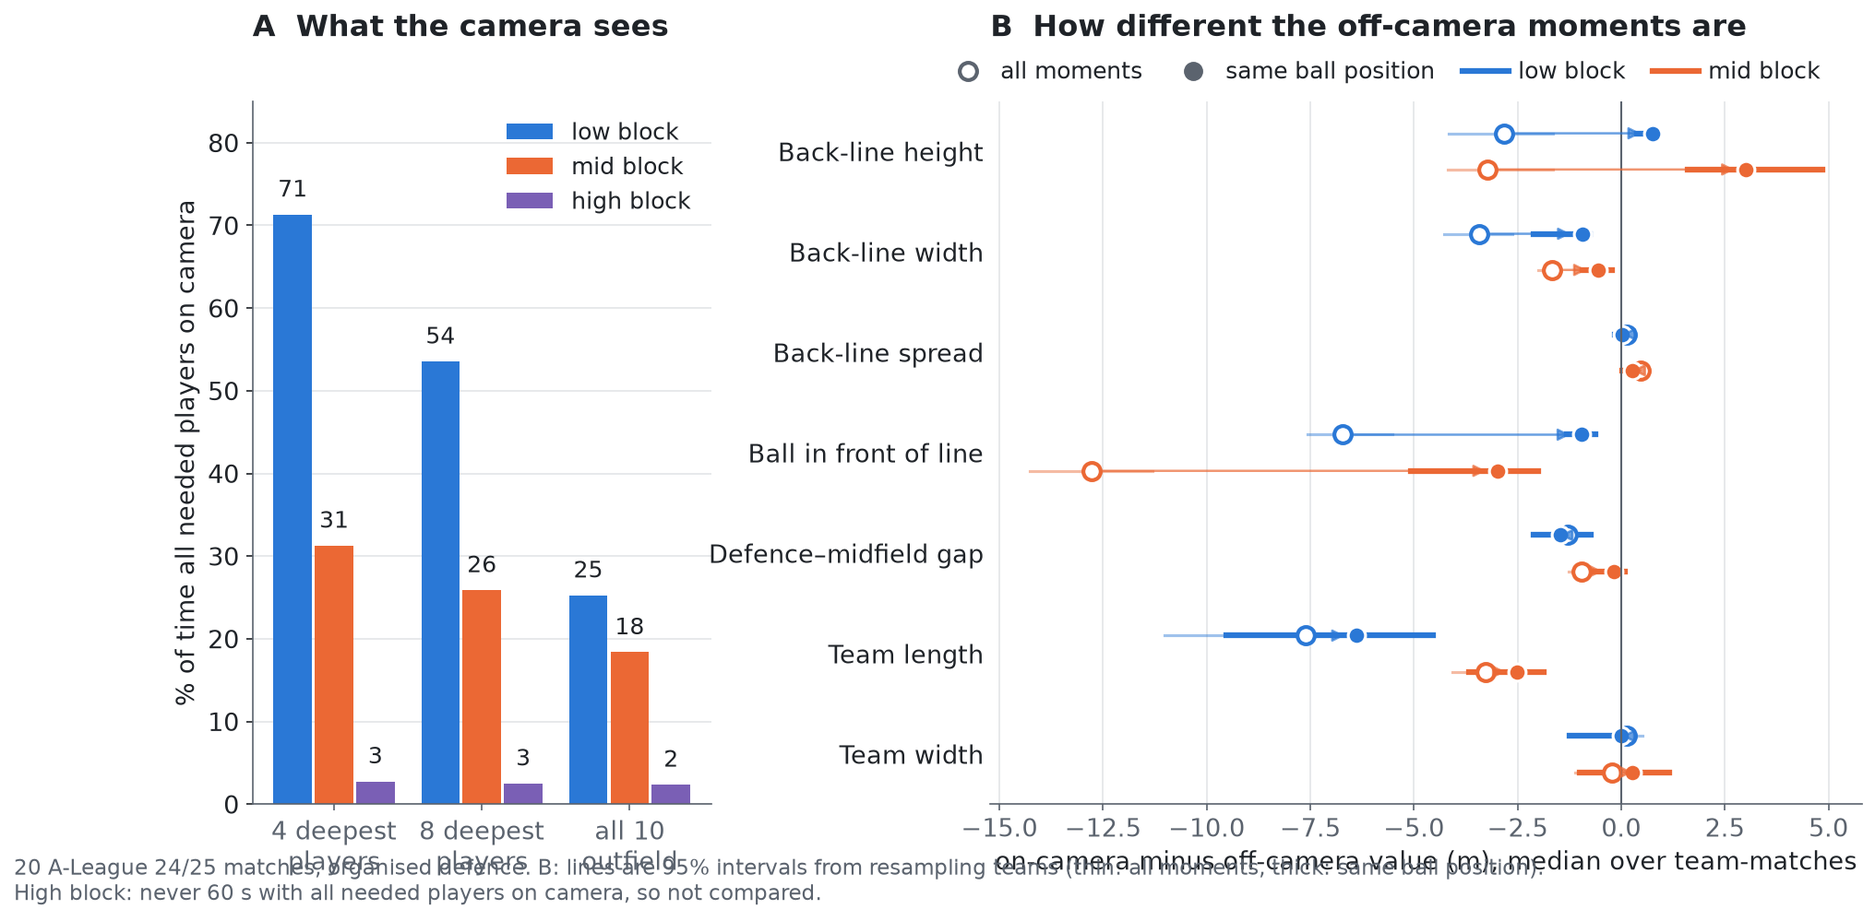
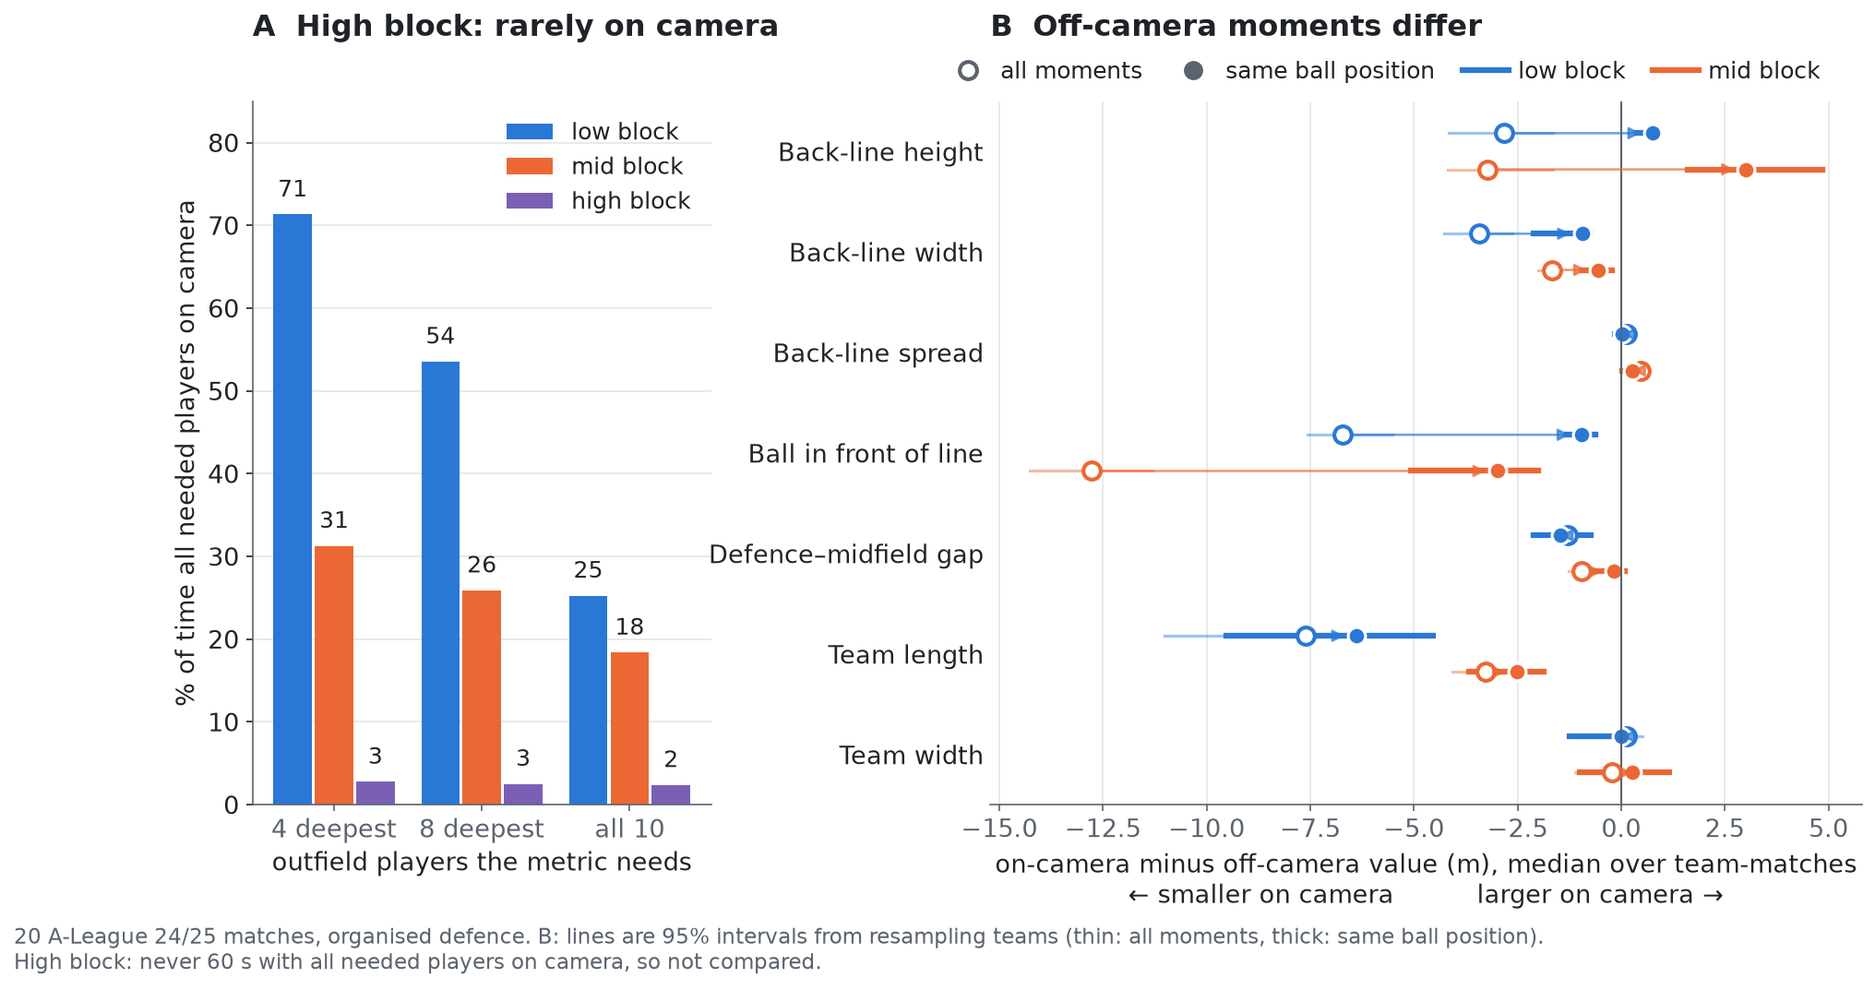
Second review fixes: figure layout and sign guide, drop the across-match r interval (teams repeat), keep a user's matches.json, team-matches per comparison in Table 1, state which rules came after the results, cite off-screen imputation work, constraints in quickstart, docstrings

diff --git a/backline/trust_figure.py b/backline/trust_figure.py
@@ -31,11 +31,12 @@ def draw(t: pd.DataFrame, out: str):
         a.bar(xs, cov.loc[needs, blk] * 100, w, color=COL[blk], label=NAME[blk])
         for x, v in zip(xs, cov.loc[needs, blk] * 100):
             a.text(x, v + 1.5, f"{v:.0f}", ha="center", va="bottom", fontsize=12, color=INK)
-    a.set_xticks(np.arange(len(needs)), [f"{n} deepest\nplayers" if n < 10 else "all 10\noutfield" for n in needs])
+    a.set_xticks(np.arange(len(needs)), [f"{n} deepest" if n < 10 else "all 10" for n in needs])
+    a.set_xlabel("outfield players the metric needs")
     a.set_ylim(0, 85); a.set_ylabel("% of time all needed players on camera")
     a.spines[["top", "right"]].set_visible(False); a.yaxis.grid(True, color=GRID); a.set_axisbelow(True)
     a.legend(frameon=False, loc="upper right", fontsize=12)
-    a.set_title("A  What the camera sees", loc="left", fontweight="bold", pad=34)
+    a.set_title("A  High block: rarely on camera", loc="left", fontweight="bold", pad=34)
 
     # B: on-camera minus off-camera, raw (hollow) and same ball position (filled), 95% team-bootstrap intervals
     m = t[t.block.isin(["low_block", "medium_block"])]
@@ -53,17 +54,18 @@ def draw(t: pd.DataFrame, out: str):
             b.plot(r.matched_gap_median, y, "o", ms=9, color=c, mec="white", mew=1.5)
     b.axvline(0, color=MUTED, lw=1)
     b.set_yticks(range(len(metrics)), [SHORT[x] for x in metrics]); b.invert_yaxis()
-    b.set_xlabel("on-camera minus off-camera value (m), median over team-matches")
+    b.set_xlabel("on-camera minus off-camera value (m), median over team-matches\n"
+                 "\u2190 smaller on camera          larger on camera \u2192")
     b.spines[["top", "right", "left"]].set_visible(False); b.tick_params(axis="y", length=0)
     b.xaxis.grid(True, color=GRID); b.set_axisbelow(True)
-    b.set_title("B  How different the off-camera moments are", loc="left", fontweight="bold", pad=34)
+    b.set_title("B  Off-camera moments differ", loc="left", fontweight="bold", pad=34)
     h = [plt.Line2D([], [], marker="o", ls="", ms=9, mfc="white", mec=MUTED, mew=2, label="all moments"),
          plt.Line2D([], [], marker="o", ls="", ms=9, color=MUTED, label="same ball position"),
          plt.Line2D([], [], color=COL["low_block"], lw=3, label="low block"),
          plt.Line2D([], [], color=COL["medium_block"], lw=3, label="mid block")]
     b.legend(handles=h, frameon=False, loc="lower center", bbox_to_anchor=(0.45, 0.995), fontsize=12, ncol=4,
              handletextpad=0.4, columnspacing=1.2)
-    fig.text(0.01, 0.005, "20 A-League 24/25 matches, organised defence. B: lines are 95% intervals from resampling teams "
+    fig.text(0.01, -0.07, "20 A-League 24/25 matches, organised defence. B: lines are 95% intervals from resampling teams "
              "(thin: all moments, thick: same ball position).\nHigh block: never 60 s with all needed players on camera, so not compared.",
              fontsize=11, color=MUTED)
     fig.savefig(out, dpi=150, bbox_inches="tight", facecolor="white")

diff --git a/backline/trust.py b/backline/trust.py
@@ -32,8 +32,9 @@ Columns returned by `check` (one row per block):
     matched_gap_median, _ci_lo/hi the same at the same ball position; team_matches_matched = how many had enough time
     rank_rho                      Spearman correlation of on-camera and off-camera values across team-matches
     r_halves, n_halves            first half vs second half
-    r_cross, r_cross_ci_lo/hi, n_cross, p_cross   this match vs the same team's other matches, Fisher 95% interval,
-                                  permutation p; `python -m backline.trust` adds q_cross (Benjamini-Hochberg)
+    r_cross, n_cross, p_cross     this match vs the same team's other matches, permutation p (no interval: team-matches
+                                  repeat teams, so they are not independent); `python -m backline.trust` adds q_cross
+                                  (Benjamini-Hochberg over the low- and mid-block tests)
 
     python -m backline.trust            # the built-in metric set, all provided matches -> trust_table.csv
 """
@@ -164,13 +165,6 @@ def _cross_r(v: pd.DataFrame, rng, n_perm=2000):
     return r, n, float(((np.abs(null) >= abs(r)).sum() + 1) / (n_perm + 1))
 
 
-def _fisher_ci(r, n):
-    if np.isnan(r) or n < 4:
-        return np.nan, np.nan
-    z, se = np.arctanh(r), 1 / np.sqrt(n - 3)
-    return float(np.tanh(z - 1.96 * se)), float(np.tanh(z + 1.96 * se))
-
-
 def _team_boot(d: pd.Series, teams: pd.Series, rng, n_boot=2000):
     """95% interval of the median difference, resampling teams."""
     d, teams = d.values, teams.values
@@ -204,10 +198,10 @@ def summarise(v: pd.DataFrame, seed: int = 7) -> pd.DataFrame:
             team_matches_matched=len(mt),
             rank_rho=float(both.seen.rank().corr(both.off.rank())) if len(both) >= 8 else np.nan,
             r_halves=float(np.corrcoef(halves.half1, halves.half2)[0, 1]) if len(halves) >= 8 else np.nan,
-            n_halves=len(halves), r_cross=r_cross, r_cross_ci=_fisher_ci(r_cross, n_cross), n_cross=n_cross,
+            n_halves=len(halves), r_cross=r_cross, n_cross=n_cross,
             p_cross=p_cross))
     t = pd.DataFrame(out)
-    for c in ("gap_ci", "matched_gap_ci", "r_cross_ci"):
+    for c in ("gap_ci", "matched_gap_ci"):
         t[[c + "_lo", c + "_hi"]] = pd.DataFrame(t.pop(c).tolist(), index=t.index)
     return t
 

diff --git a/backline/data.py b/backline/data.py
@@ -22,8 +22,10 @@ def league_dir() -> Path:
     return Path(os.environ["BACKLINE_LEAGUE"]) if os.environ.get("BACKLINE_LEAGUE") else Path(__file__).parent
 
 
-def _fetch(url: str, dest: Path) -> Path:
-    if dest.exists() and dest.stat().st_size > 1000:
+def _fetch(url: str, dest: Path, min_size: int = 1) -> Path:
+    """Download unless the file is already there. Existing files are kept, so a user's own matches.json is never
+    replaced; `min_size` makes tracking files smaller than a real one (e.g. a Git LFS pointer) download again."""
+    if dest.exists() and dest.stat().st_size >= min_size:
         return dest
     dest.parent.mkdir(parents=True, exist_ok=True)
     tmp = dest.with_suffix(dest.suffix + ".part")
@@ -35,6 +37,7 @@ def _fetch(url: str, dest: Path) -> Path:
 
 
 def match_ids() -> list[int]:
+    """Match ids from BACKLINE_DATA/matches.json (a list of {"id": ...}); SkillCorner's list is fetched only if absent."""
     p = _fetch(f"{RAW}/matches.json", data_dir() / "matches.json")
     return sorted(m["id"] for m in json.loads(p.read_text()))
 
@@ -48,7 +51,7 @@ def download(mids=None, verbose=True) -> None:
         trk = base / f"{mid}_tracking_extrapolated.jsonl"
         if not (trk.exists() and trk.stat().st_size > 1000):
             print(f"downloading match {mid} tracking (~90 MB, first run only)...", flush=True)
-        _fetch(f"{LFS}/matches/{mid}/{mid}_tracking_extrapolated.jsonl", trk)
+        _fetch(f"{LFS}/matches/{mid}/{mid}_tracking_extrapolated.jsonl", trk, min_size=1000)
         if verbose:
             print("downloaded", mid, flush=True)
 

diff --git a/backline/breaks.py b/backline/breaks.py
@@ -82,6 +82,7 @@ def _one(mid, which="breaks"):
 
 
 def classify(df: pd.DataFrame) -> pd.DataFrame:
+    """Add a `verdict` column (no_data / estimated / too_close / looks_offside / holder_kept_onside / clean_break)."""
     def verdict(r):
         if pd.isna(r.get("onside_margin")):
             return "no_data"
@@ -100,6 +101,7 @@ def classify(df: pd.DataFrame) -> pd.DataFrame:
 
 
 def all_breaks(mids=None, procs=3, which="breaks") -> pd.DataFrame:
+    """Offside-replay rows for every line-breaking pass in `mids` (default: all matches), in `procs` processes."""
     mids = mids or data.match_ids()
     with Pool(procs) as p:
         return classify(pd.concat(p.starmap(_one, [(m, which) for m in mids]), ignore_index=True))

diff --git a/tests/test_trust.py b/tests/test_trust.py
@@ -91,3 +91,11 @@ def test_same_ball_position_recovers_estimation_error(monkeypatch):
     _, s = _run(monkeypatch, {m: _fake_ball(m, rng, bias=3.0) for m in (1, 2, 3)})
     assert abs(s.matched_gap_median - (-3.0)) < 0.5    # on minus off = -bias at the same ball position
     assert s.matched_gap_ci_hi < 0
+
+
+def test_own_matches_json_is_kept(tmp_path, monkeypatch):
+    """A short user-made matches.json (other matches or leagues) must not be replaced by SkillCorner's list."""
+    from backline import data
+    monkeypatch.setenv("BACKLINE_DATA", str(tmp_path))
+    (tmp_path / "matches.json").write_text('[{"id": 1996435}]')
+    assert data.match_ids() == [1996435]

diff --git a/backline/league.py b/backline/league.py
@@ -57,6 +57,9 @@ if __name__ == "__main__":
         allr = pd.concat(p.map(one, data.match_ids()), ignore_index=True)
     allr[allr.half == 0].drop(columns="half").to_csv(out / "league_reference.csv", index=False)
     rel = reliability(allr)
+    if not rel:
+        print("note: reliability.json is empty - first/second-half and match-to-match r need at least 8 team-matches "
+              "with a value (and, across matches, teams with 2+ matches)")
     (out / "reliability.json").write_text(json.dumps(rel, indent=1))
     print("saved", out / "league_reference.csv", out / "reliability.json")
     print(f"use it: BACKLINE_LEAGUE={out} python -m backline MATCH_ID")

diff --git a/backline/metrics.py b/backline/metrics.py
@@ -53,6 +53,8 @@ def _value(name: str, f: pd.DataFrame) -> float:
 
 
 def team_metrics(frames: pd.DataFrame, team_id: int, seed: int = 0, n_boot: int = N_BOOT) -> pd.DataFrame:
+    """One row per metric and block for `team_id`: value on measured frames (all four on camera), seconds measured,
+    90% interval from resampling defensive phases, and the league first-half/second-half and match-to-match r."""
     f = _add_frame_cols(frames[frames.team_id == team_id])
     rng = np.random.default_rng(seed)
     out = []

diff --git a/backline/scenes.py b/backline/scenes.py
@@ -23,6 +23,8 @@ def attempts(mid: int, team_id: int) -> int:
 
 
 def scenes(mid: int, team_id: int, include_failed: bool = False) -> list[dict]:
+    """Completed (with include_failed, also attempted) passes against `team_id` tagged as breaking the last line, one dict per scene with positions at the
+    pass frame and the reception; cards with the back four and receiver on camera first."""
     m = data.meta(mid)
     team, gk, home, side = data.roster(m)
     num = {p["id"]: p.get("number") for p in m["players"]}

diff --git a/backline/cards.py b/backline/cards.py
@@ -67,6 +67,8 @@ def _half_pitch(ax, xmax):
 
 def render(sc: list[dict], team_name: str, opp_name: str, out: Path, lang="en", font=None, attempts: int = 0,
            total: int | None = None):
+    """Draw a page of scene cards (from scenes.scenes) for `team_name` defending and save it to `out`; returns the path.
+    `attempts` and `total` are only used for the page header."""
     from matplotlib.lines import Line2D
     _font(lang, font)
     T = TXT[lang]

diff --git a/backline/report.py b/backline/report.py
@@ -62,6 +62,8 @@ def _shape(frames, team_id, block):
 
 
 def render(frames, met, team_id, team_name, opp_name, league: pd.DataFrame, out: Path, lang="en", font=None, match_id=None):
+    """Draw the one-page match report for one team (`met` from metrics.team_metrics, `league` = league reference)
+    and save it to `out`; returns the path."""
     _font(lang, font)
     T = TXT[lang]
     fig = plt.figure(figsize=(17, 13.5), facecolor=SURFACE)

diff --git a/README.md b/README.md
@@ -3,34 +3,33 @@
 **Short answer, for 20 A-League 24/25 matches: only in the low block, and not yet as a team trait.**
 
 - **The high block is out of sight.** All four deepest defenders are on camera 3% of the time; whole-team shape 2%.
-- **What the camera misses is different football.** Moments with a needed player off camera differ from on-camera
-  moments by up to 13 m (median). Comparing only moments with the ball in the same place removes most of this for "ball in
-  front of the line" and back-line width, and *reverses* back-line height: at the same ball position, the line is 0.8–3 m
-  deeper when one of the four is off camera. Team length stays 2.5–6.4 m apart.
-- **No metric repeated as a team trait**, but with 1–7 matches per team a moderate team effect would usually be
-  missed: absence of evidence, not evidence of absence.
+- **What the camera misses is different football.** Metrics read up to 13 m (median) differently when a needed
+  player is off camera. With the ball in the same place, most of this goes for "ball in front of the line" and
+  back-line width, and back-line height *reverses*: the line is 0.8–3 m deeper when one of the four is off camera.
+  Team length stays 2.5–6.4 m apart.
+- **No metric repeated as a team trait**, but with 1–7 matches per team a moderate effect would usually be missed.
 
 `backline.trust` runs these checks on any team-level defensive metric, so an analyst knows whether a number belongs
 in an opposition report before it is read as "how this team defends".
 
 ## Why
 
-Defensive shape needs several players at once; the camera follows the ball, so off-camera defenders are estimates.
-Broadcast visibility limits (Bassek et al., *Sci. Med. Football*, 2025) and metric repeatability checks (Franks et
-al., "Meta-analytics", 2016) are known; this combines both for defensive shape, per block, for any metric.
+Defensive shape needs several players at once, but the camera follows the ball. Broadcast visibility limits (Bassek
+et al., *Sci. Med. Football*, 2025), metric repeatability (Franks et al., 2016) and filling in off-screen players
+(the author's arXiv:2607.11548) are known; this asks, per block and for any metric, whether the number holds up.
 
 ## Quickstart
 
 ```bash
 git clone https://github.com/nowayfootball/backline && cd backline
 python3 -m venv .venv && source .venv/bin/activate   # Python 3.10 or newer
-pip install -e ".[test]"                             # tested versions: constraints.txt
-pytest                                               # 11 tests, downloads 3 matches (~1 min)
-python -m backline.trust                             # Table 1 -> trust_table.csv (20 matches, 1.8 GB, ~5 min)
+pip install -e ".[test]" -c constraints.txt         # tested versions
+pytest                                               # 12 tests, downloads 3 matches (~1 min)
+python -m backline.trust                             # Table 1 -> trust_table.csv (downloads 20 matches, 1.8 GB)
 python -m backline.trust_figure                      # Figure 1 -> figures/fig1_trust.png
 ```
 
-Data (not included) downloads from a pinned SkillCorner open-data commit to `~/.cache/backline` (`BACKLINE_DATA`).
+Data (not included) comes from a pinned SkillCorner open-data commit into `~/.cache/backline` (`BACKLINE_DATA`).
 
 ## Check your own metric
 
@@ -42,56 +41,56 @@ print(trust.check(gap, uses=range(8)))     # defence-midfield gap, needs the 8 d
 
 The function gets one team's organised-defence frames from one match: `x0..x9`, `y0..y9` (outfield players by depth,
 own goal at x = −52.5), `d0..d9` (on camera?), `ball_x`, `ball_y`. Blocks are SkillCorner's phase tags. `check`
-returns, per block, every number in Table 1 plus intervals and n (columns: `backline.trust` docstring).
+returns every Table 1 number per block, with intervals and n (columns: `backline.trust` docstring).
 
 ## Results
 
 ![Figure 1](figures/fig1_trust.png)
 
-**Figure 1.** A: share of organised-defence time with every needed player on camera. B: on- minus off-camera
-value; hollow = all moments, filled = same ball position (5 m along × three bands across).
+**Figure 1.** A: share of organised-defence time with every needed player on camera. B: on- minus off-camera value
+(same ball position = 5 m along × three bands across).
 
-**Table 1.** Seven common metrics, low / mid block (40 team-matches)
+**Table 1.** Seven common metrics, low / mid block, 20 matches. Brackets: team-matches compared; r uses 36–39 (18–20
+for 10-player metrics).
 
-| Metric (players needed) | On camera | On − off, same ball position | Order kept on/off (ρ) | Same team, other matches (r) | Use for |
+| Metric (players needed) | On camera | On − off, same ball position | Rank agreement on/off (ρ) | Repeat across a team's matches (r) | Use for |
 |---|---|---|---|---|---|
-| Back-line height (4) | 71% / 31% | +0.8 / +3.0 m | 0.33 / 0.63 | 0.39 / 0.27 | low ✓ · mid ✗ |
-| Back-line width (4) | 71% / 31% | −0.9 / −0.6 m | 0.77 / 0.79 | 0.08 / −0.01 | low ✓ · mid ranking |
-| Back-line spread (4) | 71% / 31% | 0.0 / +0.3 m | 0.58 / 0.58 | 0.22 / 0.40 | low ✓ · mid ✗ |
-| Ball in front of line (4) | 71% / 31% | −1.0 / −3.0 m | 0.58 / 0.26 | 0.44 / 0.08 | low ✓ · mid ✗ |
-| Defence–midfield gap (8) | 54% / 26% | −1.5 / −0.2 m | 0.50 / 0.77 | 0.21 / 0.26 | low ✓ · mid ranking |
-| Team length (10) | 25% / 18% | −6.4 / −2.5 m | 0.65 / 0.58 | 0.52 / −0.20 | ✗ · ✗ |
-| Team width (10) | 25% / 18% | 0.0 / +0.3 m | 0.44 / 0.71 | −0.34 / 0.40 | ✗ · mid ranking |
+| Back-line height (4) | 71% / 31% | +0.8 / +3.0 m [16 / 28] | 0.33 / 0.63 | 0.39 / 0.27 | low ✓ · mid ✗ |
+| Back-line width (4) | 71% / 31% | −0.9 / −0.6 m [16 / 28] | 0.77 / 0.79 | 0.08 / −0.01 | low ✓ · mid ranking |
+| Back-line spread (4) | 71% / 31% | 0.0 / +0.3 m [16 / 28] | 0.58 / 0.58 | 0.22 / 0.40 | low ✓ · mid ✗ |
+| Ball in front of line (4) | 71% / 31% | −1.0 / −3.0 m [16 / 28] | 0.58 / 0.26 | 0.44 / 0.08 | low ✓ · mid ✗ |
+| Defence–midfield gap (8) | 54% / 26% | −1.5 / −0.2 m [21 / 24] | 0.50 / 0.77 | 0.21 / 0.26 | low ✓ · mid ranking |
+| Team length (10) | 25% / 18% | −6.4 / −2.5 m [11 / 17] | 0.65 / 0.58 | 0.52 / −0.20 | ✗ · ✗ |
+| Team width (10) | 25% / 18% | 0.0 / +0.3 m [11 / 17] | 0.44 / 0.71 | −0.34 / 0.40 | ✗ · mid ranking |
 
 How to read it:
 
-- **Use for** (our rule of thumb). ✓: needed players on camera at least half the time. *Ranking*: less, but
-  team-matches keep their order on and off camera (ρ ≥ 0.7), so compare matches rather than quote metres. ✗: neither.
-  High block: ✗ for all.
+- **Use for**: a rule of thumb set after seeing the results. ✓: needed players on camera at least half the time.
+  *Ranking*: less, but team-matches keep their order on and off camera (ρ ≥ 0.7), so compare matches rather than
+  quote metres. ✗: neither (high block: all).
 - **Sign**: negative means smaller on camera (deeper line, narrower, ball closer, shorter team).
 - **Same ball position** removes *which* moments the camera shows. The rest mixes estimation error with players
-  being off camera *because of where they stand* (a defender dropping deep leaves the picture); the data cannot
-  separate them. Rules fixed before running, checked on synthetic data ([docs](docs/trust_metrics.md)).
-- **Team trait**: no match-to-match r reached q < 0.1 (Benjamini–Hochberg over 14; lowest p = 0.05); intervals span
-  ±0.3, more for 10-player metrics (n = 18–20). At the team-matches measured, a team effect explaining 40% of the
-  variance is detected 14–48% of the time (`audit/trust_power.py`).
+  off camera *because of where they stand* (a defender dropping deep leaves the picture); the data cannot tell which.
+  Rules were fixed before running (after a review had seen the sign flip) and checked on synthetic data
+  ([docs](docs/trust_metrics.md)).
+- **Team trait**: no r survived false-discovery correction (lowest permutation p = 0.05). A team effect explaining
+  40% of the variance would be detected 14–48% of the time at these sample sizes (`audit/trust_power.py`).
 
 ## Scene cards
 
-`python -m backline 1996435 --team 869 --scenes` draws a match report and a card for each completed opponent pass
-SkillCorner tags as breaking the last line (113 in 20 matches; [example](figures/fig_scenes_en.png)). Cards blame no
-one: of 62 passes called offside only 6 look offside at the pass frame, and a "defender left behind" flag and a
-"usual line" overlay both failed ([test](docs/usual_line_test.md)).
+`python -m backline 1996435 --team 869 --scenes` draws a match report and a card per opponent pass tagged as
+breaking the last line (113; [example](figures/fig_scenes_en.png)). Cards blame no one: fault judgements we tried,
+such as replaying offside calls (6 of 62 reproduced), failed ([test](docs/usual_line_test.md)).
 
 ## Other matches and leagues
 
-Same SkillCorner open-data format (tested only on these 20): put `matches.json` (`[{"id": ...}]`) and `<id>/`
-folders in `BACKLINE_DATA`, run `python -m backline.league --out my_league`, then
-`BACKLINE_LEAGUE=my_league python -m backline <id>`. This submission uses only the provided matches.
+Same SkillCorner format (tested on these 20 only): put `matches.json` (`[{"id": ...}]`) and `<id>/` folders in
+`BACKLINE_DATA`, run `python -m backline.league --out my_league`, then `BACKLINE_LEAGUE=my_league python -m backline <id>`.
+This submission uses only the provided matches.
 
 ## Notes
 
-- Tests: synthetic (off-camera error, ball-position selection, planted team effect) and real matches; CI on Python
-  3.10–3.12. `audit/`: research notes.
+- Tests: synthetic (off-camera error, ball-position selection, planted team effect) on Python 3.10–3.12, real
+  matches on 3.11, in CI. `audit/`: research notes.
 - Licence: MIT (`LICENSE.md`). Data: SkillCorner × PySport open data (A-League 24/25) only.
 - AI use: Claude (Anthropic) helped write and review the code. Study design, judgements and final review are the author's.

diff --git a/docs/trust_metrics.md b/docs/trust_metrics.md
@@ -82,3 +82,14 @@ recovered). Real data, on- minus off-camera, median over team-matches [95% inter
 Team-matches with enough time at matched ball positions: 11–28 of 40 (`team_matches_matched` in
 `backline/trust_table.csv`). Reading (b) means the remainder is not explained by ball position; it is not claimed to
 be estimation error.
+
+## Changes after a second review (2026-10-23)
+- The 95% Fisher interval for the match-to-match r (fixed above) was dropped: team-matches repeat the same 13 teams
+  and share "other matches", so treating them as independent gave intervals that excluded 0 where the permutation p
+  did not (e.g. back-line height, low block: p = 0.09). A team bootstrap did not agree with the permutation either.
+  r is reported with n, permutation p and Benjamini–Hochberg q only; `audit/trust_power.py` gives the sensitivity.
+- The "Use for" column in the README (✓ when coverage ≥ 50%; *ranking* when ρ ≥ 0.7) was defined after the results
+  were seen. It is a reading aid, not a test.
+- The same-ball-position rules above were fixed before running, but after an independent review had already seen
+  the sign flip of back-line height with a simpler ball-x match. The full rules (two-dimensional cells, all metrics,
+  synthetic validation) were new; the direction for height was not.
